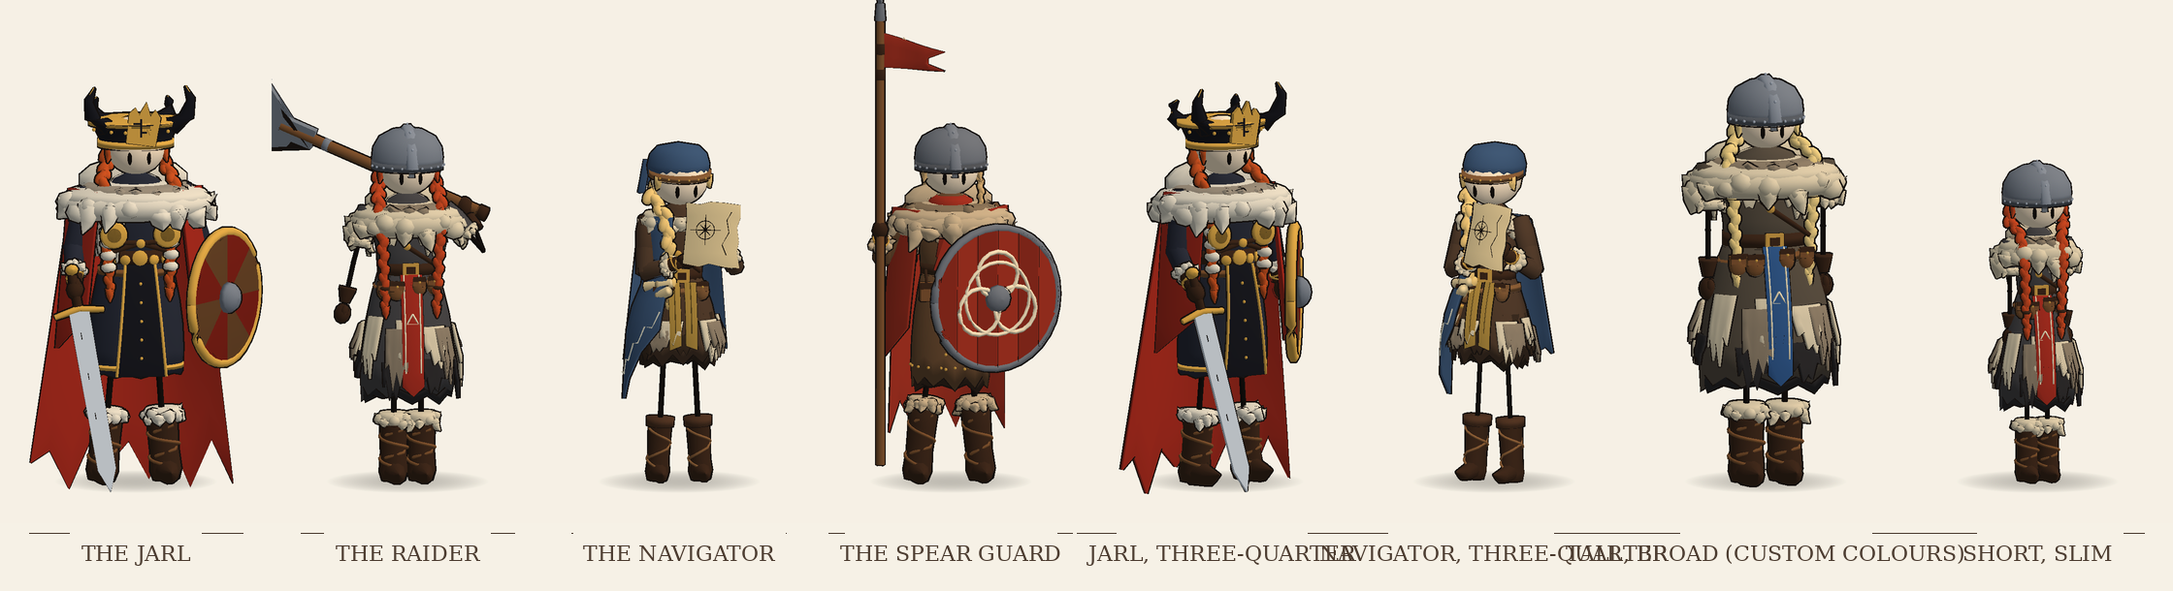
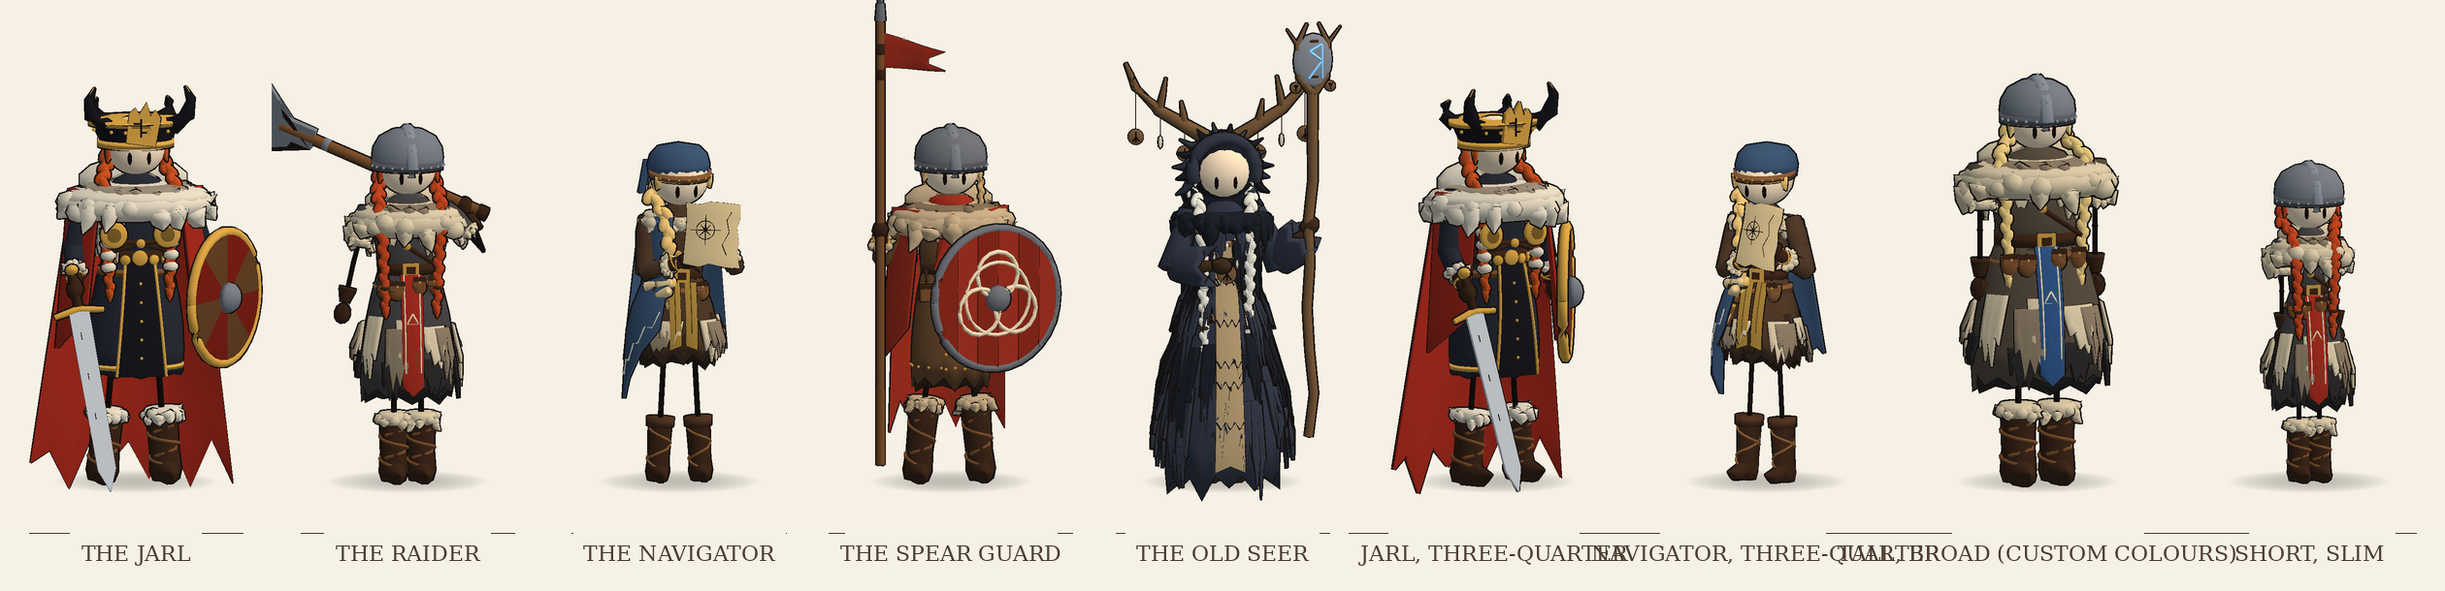
Odin's Coin characters: the Old Seer and her rune staff
The Old Seer outfit (docs/compare/seer.png): a robe to the ground with
torn strips at the hem; a shaggy cloak of dark flaps and feathers in
tiers from the shoulders down, feathers bristling round the shoulders
and ragged hanging sleeves; a deep hood with feathers round its edge;
great branching antlers hung with rune discs and bone charms on cords;
very long white braids; a pale stole down the front to the ground with
dark zig-zags; bead necklaces, bone and rune-disc pendants and a
rune-disc belt with hanging charms. New add-on: a gnarled forked staff
lashed round a stone with a glowing blue rune, hung with rune discs.

Claude-Session: https://claude.ai/code/session_01SCdejJ1UF8RUxAkkFhZXGU

diff --git a/OdinsCoin/Assets/Scripts/Characters/Garments.cs b/OdinsCoin/Assets/Scripts/Characters/Garments.cs
@@ -663,6 +663,192 @@ namespace OdinsCoin
             d.Add(Joints.Body, d.pal.leatherDark, MeshData.Tube(new[] { new Vector3(px, y, f.waistR * depth * 0.7f), pouch + new Vector3(0f, 0.04f * s, 0f) }, new[] { 0.007f * s, 0.007f * s }, 4), false);
         }
 
+        // ---------------------------------------------------------------- the old seer
+
+        /// <summary>A long robe to the ground, torn into strips at the hem, flaring wide.</summary>
+        public static void Robe(Dresser d)
+        {
+            var f = d.fit;
+            float s = d.S;
+            d.hasSkirt = true;
+            d.skirtTop = f.waist; d.skirtTopR = f.waistR * 0.98f; d.skirtBottom = 0.06f * s; d.skirtBottomR = f.hipR * 1.9f; d.skirtDepth = f.depth + 0.08f;
+            d.Add(Joints.Body, d.pal.cloth, CharacterKit.RaggedSkirt(d.skirtTop, d.skirtTopR, d.skirtBottom, d.skirtBottomR, d.skirtDepth, 26, 0.09f * s, d.seed + 61));
+        }
+
+        /// <summary>
+        /// A shaggy cloak of torn strips and feathers: tier upon tier of dark flaps from the shoulders to the ground,
+        /// in two shades, so the whole figure looks ragged like the concept's seer.
+        /// </summary>
+        public static void FeatherCloak(Dresser d)
+        {
+            var f = d.fit;
+            float s = d.S;
+            System.Func<float, float> surface = y => y > f.waist ? f.TorsoRadius(y) * 1.15f + 0.03f * s : d.SkirtRadius(y) * 1.02f;
+            float depth = d.hasSkirt ? d.skirtDepth : f.depth;
+            float[] tops = { f.shoulderY + 0.01f * s, f.chest - 0.02f * s, f.waist - 0.02f * s, f.waist - 0.3f * s, 0.45f * s };
+            for (int t = 0; t < tops.Length; t++)
+            {
+                var colour = (t & 1) == 0 ? d.pal.cloth : d.pal.clothDark;
+                float len = t == 0 ? 0.22f * s : 0.34f * s;
+                d.Add(Joints.Body, colour, CharacterKit.Flaps(tops[t], len, 14 + t * 2, 0.95f, depth, surface, 0.01f + t * 0.004f, d.seed + 62 + t, 0.01f * s));
+            }
+            // Feathers bristling round the shoulders.
+            d.Add(Joints.Body, d.pal.clothDark, CharacterKit.FurRing(new Vector3(0f, f.shoulderY - 0.01f * s, 0f), f.shoulderX + 0.05f * s, 0.8f, 0.06f * s, 24, 0.14f * s, d.seed + 67, 1.1f));
+            // Ragged sleeves hanging from the arms.
+            foreach (var arm in new[] { Joints.LeftArm, Joints.RightArm })
+            {
+                float r = 0.06f * s;
+                d.Add(arm, d.pal.cloth, MeshData.Lathe(new[] { new Vector2(r * 1.3f, -f.upperArm - 0.02f * s), new Vector2(r, -0.1f * s), new Vector2(r * 0.9f, 0.03f * s) }, 10));
+            }
+            foreach (var fore in new[] { Joints.LeftForearm, Joints.RightForearm })
+            {
+                float r = 0.07f * s;
+                d.Add(fore, d.pal.cloth, CharacterKit.RaggedSkirt(0.01f * s, r, -f.foreArm * 0.7f, r * 1.4f, 1f, 12, 0.05f * s, d.seed + fore.Length));
+            }
+        }
+
+        /// <summary>A deep hood round the face, dark, its edge ragged; the face shows in its opening.</summary>
+        public static void Hood(Dresser d)
+        {
+            var f = d.fit;
+            float r = f.headR, cy = HeroModel.HeadCentre(f), s = d.S;
+            // The hood's shell sits behind and over the head, a little bigger, with the front cut open.
+            d.Add(Joints.Head, d.pal.clothDark, MeshData.Ellipsoid(new Vector3(0f, cy + 0.06f * r, -0.28f * r), new Vector3(r * 1.25f, r * 1.28f, r * 1.1f), 16, 10));
+            // The hood's rim framing the face.
+            var rim = new Vector3[15];
+            var rr = new float[15];
+            for (int i = 0; i < rim.Length; i++)
+            {
+                float a = Mathf.Lerp(-0.35f, Mathf.PI + 0.35f, i / (float)(rim.Length - 1));
+                rim[i] = new Vector3(Mathf.Cos(a) * r * 1.12f, cy + Mathf.Sin(a) * r * 1.15f + 0.02f * r, r * 0.45f);
+                rr[i] = 0.03f * s;
+            }
+            d.Add(Joints.Head, d.pal.cloth, MeshData.Tube(rim, rr, 6));
+            // Ragged feathers bristling all round the hood's edge.
+            var rng = new System.Random(d.seed + 70);
+            for (int i = 0; i < 16; i++)
+            {
+                float a = Mathf.Lerp(-0.6f, Mathf.PI + 0.6f, i / 15f);
+                var root = new Vector3(Mathf.Cos(a) * r * 1.2f, cy + Mathf.Sin(a) * r * 1.22f, r * 0.2f);
+                var outDir = new Vector3(Mathf.Cos(a), Mathf.Sin(a) - 0.6f, -0.3f).normalized;
+                d.Add(Joints.Head, i % 2 == 0 ? d.pal.clothDark : d.pal.cloth, CharacterKit.Tuft(root, root + outDir * (0.06f + (float)rng.NextDouble() * 0.05f) * s, 0.02f * s));
+            }
+            // The hood falls onto the shoulders behind the neck.
+            d.Add(Joints.Head, d.pal.clothDark, MeshData.Ellipsoid(new Vector3(0f, cy - r * 1.0f, -r * 0.55f), new Vector3(r * 1.35f, r * 0.7f, r * 0.9f), 14, 8));
+        }
+
+        /// <summary>A long pale stole hanging down the front to the ground, with dark zig-zags and runes.</summary>
+        public static void Stole(Dresser d)
+        {
+            var f = d.fit;
+            float s = d.S;
+            const int rows = 12;
+            var grid = new Vector3[rows, 3];
+            float top = f.chest + 0.02f * s, bottom = 0.1f * s;
+            for (int r = 0; r < rows; r++)
+                for (int c = 0; c < 3; c++)
+                {
+                    float v = r / (float)(rows - 1);
+                    float y = Mathf.Lerp(top, bottom, v) - (r == rows - 1 && c != 1 ? 0.03f * s : 0f);
+                    float rad = y > f.waist ? f.TorsoRadius(y) * f.depth + 0.03f * s : d.SkirtRadius(y) * d.skirtDepth + 0.03f * s;
+                    grid[r, c] = new Vector3((c - 1) * Mathf.Lerp(0.05f, 0.075f, v) * s * f.width, y, rad + 0.02f * v);
+                }
+            d.Add(Joints.Body, d.pal.cloth2, CharacterKit.Sheet(grid, Vector3.forward, 0.01f * s));
+            // Rows of zig-zags down its length.
+            for (int band = 0; band < 5; band++)
+            {
+                float v = 0.2f + band * 0.16f;
+                int r = Mathf.RoundToInt(v * (rows - 1));
+                var line = new Vector3[7];
+                for (int i = 0; i < line.Length; i++)
+                    line[i] = Vector3.Lerp(grid[r, 0], grid[r, 2], i / 6f) * 1f + new Vector3(0f, 0f, 0.009f * s);
+                d.Add(Joints.Body, d.pal.clothDark, CharacterKit.ZigZag(line, Vector3.up, 0.018f * s, 0.004f * s), false);
+            }
+        }
+
+        /// <summary>Necklaces of beads with bone charms and wooden rune discs, and a rune-disc belt.</summary>
+        public static void Charms(Dresser d)
+        {
+            var f = d.fit;
+            float s = d.S;
+            float cz = f.chestR * f.depth + 0.035f * s;
+            // Two strings of beads hanging in loops across the chest.
+            for (int k = 0; k < 2; k++)
+            {
+                int n = 13;
+                for (int i = 0; i < n; i++)
+                {
+                    float u = i / (float)(n - 1) * 2f - 1f;
+                    var p = new Vector3(u * f.chestR * (0.7f + 0.1f * k), f.shoulderY - 0.02f * s - (1f - u * u) * (0.1f + 0.08f * k) * s, cz + (1f - u * u) * 0.01f);
+                    d.Add(Joints.Body, i % 3 == 0 ? d.pal.parchment : d.pal.leather, MeshData.Ellipsoid(p, Vector3.one * 0.011f * s, 6, 4), false);
+                }
+            }
+            // Pendants: a bone, a rune disc, a claw.
+            var pend = new[] { new Vector3(-0.05f, 0f, 0f), new Vector3(0.0f, -0.03f, 0.005f), new Vector3(0.055f, 0.01f, 0f) };
+            for (int i = 0; i < pend.Length; i++)
+            {
+                var p = new Vector3(pend[i].x * s, f.shoulderY - 0.2f * s + pend[i].y * s, cz + 0.01f);
+                if (i == 1) RuneDisc(d, Joints.Body, p, 0.03f * s, Quaternion.Euler(90f, 0f, 0f));
+                else d.Add(Joints.Body, d.pal.parchment, MeshData.Ellipsoid(p, new Vector3(0.012f, 0.03f, 0.012f) * s, 6, 5));
+            }
+            // Belt: a cord with a big wooden rune disc at the front.
+            d.Add(Joints.Body, d.pal.leather, CharacterKit.Band(f.waist, 0.03f * s, d.SkirtRadius(f.waist) * 1.06f, d.skirtDepth + 0.02f));
+            RuneDisc(d, Joints.Body, new Vector3(0f, f.waist, d.SkirtRadius(f.waist) * (d.skirtDepth + 0.02f) + 0.06f * s), 0.045f * s, Quaternion.Euler(90f, 0f, 0f));
+            // Charms hanging from the belt on cords.
+            foreach (float x in new[] { -0.09f, -0.05f, 0.07f })
+            {
+                var top = new Vector3(x * s, f.waist - 0.02f * s, d.SkirtRadius(f.waist) * d.skirtDepth + 0.02f);
+                var end = top + new Vector3(0f, -0.2f * s, 0.02f * s);
+                d.Add(Joints.Body, d.pal.leatherDark, MeshData.Tube(new[] { top, end }, new[] { 0.003f * s, 0.003f * s }, 4), false);
+                if (x > 0f) RuneDisc(d, Joints.Body, end, 0.028f * s, Quaternion.Euler(90f, 0f, 0f));
+                else d.Add(Joints.Body, d.pal.parchment, MeshData.Ellipsoid(end, new Vector3(0.018f, 0.028f, 0.016f) * s, 7, 5));
+            }
+        }
+
+        /// <summary>A round wooden disc with a rune burnt into it (Algiz-like), facing along the rotation's up axis.</summary>
+        public static void RuneDisc(Dresser d, string joint, Vector3 at, float radius, Quaternion facing)
+        {
+            float s = d.S;
+            d.Add(joint, d.pal.leather, MeshData.Lathe(new[] { new Vector2(radius, -0.006f * s), new Vector2(radius, 0.006f * s) }, 14).Transformed(at, facing, Vector3.one));
+            var up = facing * Vector3.up;
+            var a = facing * Vector3.forward;
+            var b = facing * Vector3.right;
+            var c = at + up * 0.0075f * s;
+            foreach (var seg in new[] { new[] { -0.7f, 0f, 0.7f, 0f }, new[] { 0f, 0f, 0.6f, 0.45f }, new[] { 0f, 0f, 0.6f, -0.45f } })
+                d.Add(joint, d.pal.ink, MeshData.Tube(new[] { c + (a * seg[0] + b * seg[1]) * radius, c + (a * seg[2] + b * seg[3]) * radius }, new[] { 0.0035f * s, 0.0035f * s }, 4), false);
+        }
+
+        /// <summary>Great antlers rising from the hood, hung with rune discs and bone charms on cords.</summary>
+        public static void Antlers(Dresser d)
+        {
+            var f = d.fit;
+            float r = f.headR, cy = HeroModel.HeadCentre(f), s = d.S;
+            var horn = d.pal.leather;
+            foreach (float x in new[] { -1f, 1f })
+            {
+                var root = new Vector3(x * r * 0.55f, cy + r * 1.1f, -r * 0.3f);
+                var beam = new[] { root, root + new Vector3(x * 0.1f, 0.06f, 0f) * s, root + new Vector3(x * 0.22f, 0.13f, -0.02f) * s, root + new Vector3(x * 0.33f, 0.24f, -0.03f) * s, root + new Vector3(x * 0.38f, 0.36f, -0.02f) * s };
+                d.Add(Joints.Head, horn, MeshData.Tube(beam, new[] { 0.034f * s, 0.03f * s, 0.025f * s, 0.018f * s, 0.008f * s }, 7));
+                // Tines branching upwards off the beam.
+                foreach (var t in new[] { new[] { 1f, 0.12f, 0.02f }, new[] { 2f, 0.16f, -0.03f }, new[] { 3f, 0.12f, 0.05f } })
+                {
+                    var at = beam[(int)t[0]];
+                    var tip = at + new Vector3(x * t[2], t[1], 0.02f) * s;
+                    d.Add(Joints.Head, horn, MeshData.Tube(new[] { at, (at + tip) * 0.5f + new Vector3(0f, 0f, 0.01f * s), tip }, new[] { 0.018f * s, 0.013f * s, 0.005f * s }, 6));
+                }
+                // Charms hanging from the beam.
+                for (int k = 0; k < 3; k++)
+                {
+                    var hang = Vector3.Lerp(beam[1], beam[3], k / 2f);
+                    float drop = (0.1f + 0.05f * k) * s;
+                    var end = hang + Vector3.down * drop;
+                    d.Add(Joints.Head, d.pal.leatherDark, MeshData.Tube(new[] { hang, end }, new[] { 0.0025f * s, 0.0025f * s }, 4), false);
+                    if (k == 1) d.Add(Joints.Head, d.pal.parchment, MeshData.Ellipsoid(end + Vector3.down * 0.02f * s, new Vector3(0.01f, 0.03f, 0.01f) * s, 6, 4));
+                    else RuneDisc(d, Joints.Head, end + Vector3.down * 0.035f * s, 0.036f * s, Quaternion.Euler(90f, 0f, 0f));
+                }
+            }
+        }
+
         // ---------------------------------------------------------------- hair
 
         /// <summary>Two long braids from behind the ears, forward over the shoulders and down the chest, tied with leather.</summary>

diff --git a/OdinsCoin/Assets/Scripts/Characters/HeroModel.cs b/OdinsCoin/Assets/Scripts/Characters/HeroModel.cs
@@ -91,6 +91,7 @@ namespace OdinsCoin
                 case HairStyle.WrappedBraids: Garments.LongBraids(d, 0.4f, true); break;
                 case HairStyle.SideBraid: Garments.SideBraid(d, 0.36f); break;
                 case HairStyle.ShortLocks: Garments.ShortLocks(d); break;
+                case HairStyle.VeryLongBraids: Garments.LongBraids(d, 0.62f); break;
             }
         }
     }
@@ -148,6 +149,50 @@ namespace OdinsCoin
                         d.Add(Joints.Weapon, d.pal.emblem, MeshData.Tube(ring, rr, 4), false);
                         var tri = new[] { c0 + new Vector3(0f, 0f, 0.04f) * s, c0 + new Vector3(0f, 0.035f, -0.022f) * s, c0 + new Vector3(0f, -0.035f, -0.022f) * s, c0 + new Vector3(0f, 0f, 0.04f) * s };
                         d.Add(Joints.Weapon, d.pal.emblem, MeshData.Tube(tri, new[] { 0.003f * s, 0.003f * s, 0.003f * s, 0.003f * s }, 4), false);
+                    }
+                    break;
+                case WeaponId.Staff:
+                    {
+                        // A gnarled branch, forking at the top round a stone slab with a glowing rune, hung with charms.
+                        var rng = new System.Random(7);
+                        var path = new Vector3[9];
+                        var radii = new float[9];
+                        for (int i = 0; i < path.Length; i++)
+                        {
+                            float t = i / (float)(path.Length - 1);
+                            path[i] = new Vector3(((float)rng.NextDouble() - 0.5f) * 0.03f * s, ((float)rng.NextDouble() - 0.5f) * 0.03f * s, Mathf.Lerp(-1.02f, 0.62f, t) * s);
+                            radii[i] = Mathf.Lerp(0.02f, 0.024f, t) * s;
+                        }
+                        d.Add(Joints.Weapon, d.pal.leather, MeshData.Tube(path, radii, 7));
+                        var fork = path[path.Length - 1];
+                        foreach (float side in new[] { -1f, 1f })
+                        {
+                            var branch = new[] { fork, fork + new Vector3(0f, side * 0.07f, 0.08f) * s, fork + new Vector3(0f, side * 0.08f, 0.24f) * s, fork + new Vector3(0f, side * 0.03f, 0.34f) * s };
+                            d.Add(Joints.Weapon, d.pal.leather, MeshData.Tube(branch, new[] { 0.02f * s, 0.015f * s, 0.012f * s, 0.005f * s }, 6));
+                            var twig = new[] { branch[2], branch[2] + new Vector3(0.01f, side * 0.06f, 0.08f) * s };
+                            d.Add(Joints.Weapon, d.pal.leather, MeshData.Tube(twig, new[] { 0.008f * s, 0.003f * s }, 5));
+                        }
+                        // The rune stone, lashed between the forks: grey slab, glowing blue rune on its face (+X).
+                        var stone = fork + new Vector3(0f, 0f, 0.16f * s);
+                        d.Add(Joints.Weapon, new Color(0.5f, 0.52f, 0.55f), MeshData.Ellipsoid(stone, new Vector3(0.03f, 0.1f, 0.13f) * s, 12, 8));
+                        // The rune (like Raidho): a stem, a bowl and a leg, glowing on the face.
+                        var glyph = new[] {
+                            new[] { new Vector2(-0.035f, -0.08f), new Vector2(-0.035f, 0.08f) },
+                            new[] { new Vector2(-0.035f, 0.08f), new Vector2(0.03f, 0.05f) },
+                            new[] { new Vector2(0.03f, 0.05f), new Vector2(-0.035f, 0.0f) },
+                            new[] { new Vector2(-0.035f, 0.0f), new Vector2(0.035f, -0.08f) } };
+                        foreach (var seg in glyph)
+                            d.Add(Joints.Weapon, d.pal.emblem, MeshData.Tube(new[] { stone + new Vector3(0.031f, seg[0].x, seg[0].y) * s, stone + new Vector3(0.031f, seg[1].x, seg[1].y) * s }, new[] { 0.007f * s, 0.007f * s }, 4), false);
+                        foreach (float z in new[] { 0.08f, 0.25f })
+                            d.Add(Joints.Weapon, d.pal.leatherDark, MeshData.Lathe(new[] { new Vector2(0.03f * s, 0f), new Vector2(0.03f * s, 0.012f * s) }, 8).Transformed(fork + new Vector3(0f, 0f, z * s), Quaternion.Euler(90f, 0f, 0f), Vector3.one), false);
+                        // Charms hanging from the forks.
+                        foreach (float side in new[] { -1f, 1f })
+                        {
+                            var hang = fork + new Vector3(0f, side * 0.08f, 0.2f) * s;
+                            var end = hang + new Vector3(0.0f, side * 0.01f, -0.14f) * s;
+                            d.Add(Joints.Weapon, d.pal.leatherDark, MeshData.Tube(new[] { hang, end }, new[] { 0.0025f * s, 0.0025f * s }, 4), false);
+                            Garments.RuneDisc(d, Joints.Weapon, end + new Vector3(0f, 0f, -0.025f * s), 0.024f * s, Quaternion.Euler(0f, 0f, -90f));
+                        }
                     }
                     break;
                 case WeaponId.Sword:

diff --git a/OdinsCoin/Assets/Scripts/Characters/Outfits.cs b/OdinsCoin/Assets/Scripts/Characters/Outfits.cs
@@ -4,8 +4,8 @@ using UnityEngine;
 namespace OdinsCoin
 {
     public enum OutfitId { Raider, Jarl, Navigator, SpearGuard, Seer, Scout }
-    public enum HairStyle { None, LongBraids, WrappedBraids, SideBraid, ShortLocks }
-    public enum WeaponId { None, TwoHandAxe, Sword, Spear }
+    public enum HairStyle { None, LongBraids, WrappedBraids, SideBraid, ShortLocks, VeryLongBraids }
+    public enum WeaponId { None, TwoHandAxe, Sword, Spear, Staff }
     public enum OffHandId { None, RoundShield, Map, KnotShield }
 
     /// <summary>A special move or perk that comes with an outfit (used by the game later).</summary>
@@ -126,6 +126,29 @@ namespace OdinsCoin
                     Garments.ShoulderPelt(d, 1.2f);
                     Garments.Scarf(d);
                     Garments.NasalHelmet(d);
+                } } },
+            { OutfitId.Seer, new Outfit {
+                id = OutfitId.Seer, title = "The Old Seer",
+                palette = () => new Palette {
+                    cloth = new Color(0.2f, 0.22f, 0.27f), clothDark = new Color(0.12f, 0.13f, 0.16f),
+                    cloth2 = new Color(0.7f, 0.6f, 0.44f), hair = new Color(0.9f, 0.88f, 0.82f),
+                    leather = new Color(0.46f, 0.34f, 0.22f), leatherDark = new Color(0.25f, 0.18f, 0.12f),
+                    parchment = new Color(0.88f, 0.84f, 0.74f), emblem = new Color(0.55f, 0.82f, 1f) },
+                defaultHair = HairStyle.VeryLongBraids, suggestedWeapon = WeaponId.Staff,
+                abilities = new[] {
+                    new Ability { id = "foresight", name = "Foresight", description = "See how Odin's coin will land before you wager." },
+                    new Ability { id = "ward", name = "Ward of Runes", description = "Curses on you and your crew wear off faster." } },
+                dress = d =>
+                {
+                    Garments.ShinBoots(d, 0.2f);
+                    Garments.Gloves(d);
+                    Garments.Robe(d);
+                    Garments.Tunic(d, false);
+                    Garments.FeatherCloak(d);
+                    Garments.Stole(d);
+                    Garments.Charms(d);
+                    Garments.Hood(d);
+                    Garments.Antlers(d);
                 } } },
         };
 

diff --git a/tools/preview/HeroPreview.cs b/tools/preview/HeroPreview.cs
@@ -108,6 +108,23 @@ public static class HeroPreview
         guarding.rot[Joints.LeftLeg] = Quaternion.Euler(0f, 0f, -5f);
         guarding.rot[Joints.RightLeg] = Quaternion.Euler(0f, 0f, 6f);
         shots.Add(new Shot { label = "The Spear Guard", model = guardModel, pose = guarding, yaw = 188f });
+        // The Old Seer: the rune staff upright in her left hand, the right hand at her charms.
+        var seer = CharacterSpec.Default(OutfitId.Seer);
+        seer.body = new BodyShape { height = 1.6f, width = 0.95f, gender = Gender.Female };
+        var sFit = Fit.Of(seer.body);
+        var seerModel = WithWeapon(HeroModel.Build(seer), HeroModel.BuildWeapon(seer), Joints.OffHand);
+        var augur = new Pose();
+        Vector3 sl = new Vector3(-sFit.shoulderX, sFit.shoulderY, 0f), sr = new Vector3(sFit.shoulderX, sFit.shoulderY, 0f);
+        Vector3 slElbow = sl + new Vector3(-0.1f, -0.2f, 0.02f).normalized * sFit.upperArm;
+        Vector3 slFist = new Vector3(-sFit.shoulderX - 0.16f, sFit.chest - 0.02f, 0.06f);
+        Vector3 srElbow = sr + new Vector3(0.06f, -0.2f, 0.06f).normalized * sFit.upperArm;
+        Vector3 srFist = new Vector3(0.08f, sFit.waist + 0.04f, 0.16f);
+        augur.worldRot[Joints.LeftArm] = Quaternion.FromToRotation(Vector3.down, slElbow - sl);
+        augur.worldRot[Joints.LeftForearm] = Quaternion.FromToRotation(Vector3.down, slFist - slElbow);
+        augur.worldRot[Joints.RightArm] = Quaternion.FromToRotation(Vector3.down, srElbow - sr);
+        augur.worldRot[Joints.RightForearm] = Quaternion.FromToRotation(Vector3.down, srFist - srElbow);
+        augur.worldRot[Joints.OffHand] = Quaternion.LookRotation(Vector3.up, new Vector3(1f, 0f, 0.3f));
+        shots.Add(new Shot { label = "The Old Seer", model = seerModel, pose = augur, yaw = 188f });
         shots.Add(new Shot { label = "Jarl, three-quarter", model = jarlModel, pose = stand, yaw = 215f });
         shots.Add(new Shot { label = "Navigator, three-quarter", model = navModel, pose = reading, yaw = 150f });
         // Same outfit on other bodies: the player chooses height, build and gender.

diff --git a/OdinsCoin/CHARACTERS.md b/OdinsCoin/CHARACTERS.md
@@ -27,7 +27,7 @@ Alt bygges i kode (ingen modellfiler trengs). `tools/preview/render.sh` tegner e
 - [x] **4. Raideren:** hjelm med nesevern, røde fletter, pels på skuldrene, tohånds øks over skulderen, rødt banner foran.
 - [x] **5. Navigatøren:** blått hodetørkle med rune, lys flette, blå kappe med mønsterkant, kart i hånda, rullebeholder i beltet.
 - [x] **6. Spydvakten:** hjelm, pelskrage, rødt skjerf, langt spyd med rød vimpel, rundt rødt skjold med mønster.
-- [ ] **7. Den gamle seeren:** gevir-hodepynt med runesteiner, lange hvite fletter, lang fillete kjortel, stav med lysende runestein.
+- [x] **7. Den gamle seeren:** gevir-hodepynt med runesteiner, lange hvite fletter, lang fillete kjortel, stav med lysende runestein.
 - [ ] **8. Speideren:** pelslue, grønt skjerf og grønn tunika, bue og pilkogger.
 - [ ] **8b. Finpuss, runde for runde:** Punktene over er bare første versjoner. Når alle seks finnes, går jeg tilbake til hver figur og sammenligner med konseptbildet igjen og igjen, til de er så like som mulig. Kjente forskjeller så langt:
   - **Raider:** Pelsen er for jevn og lys. Den venstre armen med øksa synes for lite. Ermene og de mørke underlagene i skjørtet trenger mer form, og støvlene bør være slankere med spissere tær.
@@ -35,6 +35,7 @@ Alt bygges i kode (ingen modellfiler trengs). `tools/preview/render.sh` tegner e
   - **Navigatør:** Skjørtet er for kort og for smalt, og mangler det blå underskjørtet med pelskant. Kappen foran er for flat og trenger folder. Beina er for lange. Kartet trenger revne kanter og bedre tegning, og den ene hånda skal holde kanten av kartet.
   - **Spydvakt:** Skjoldet bør være litt ovalt og vippe mer mot oss. Knutemønsteret skal være en ekte flettet knute, og vimpelen større. Lærjakken trenger mer form, med splitt foran og mørke bukser, og kappen må være mer fillete.
   - **Raider (etter at LookRotation ble rettet):** Øksehodet må snus så bladet vender mot oss igjen.
+  - **Seer:** Geviret må bli tykkere og mer forgreinet, og skal hvile på en tverrstang med mange runeskiver. Flettene trenger perler. Kappen trenger flere lag med fjær, lyse flekker og mønster. Staven må være mer knudrete, og runesteinen skal holdes av røtter. Hun mangler også flere kjeder og beinsmykker.
   - **Alle:** Stoffet trenger folder og tykkelse, pelsen må få strå og ikke klumper, og tegnede teksturer og skravur (punkt 10) er det som mangler mest mot det malte bildet.
 - [ ] **9. Bevegelse i plaggene:** kapper, skjørt, fletter, pels og vimpler svinger og henger etter når figuren går, snur og hugger (enkel fysikk med fjærer).
 - [ ] **10. Tegneserie-look på alt:** tusj-kanter på skipet, øyene, trærne, husene og havet, skravur med blyant eller tusj i skyggene, og papirkorn over hele bildet.
